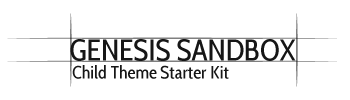
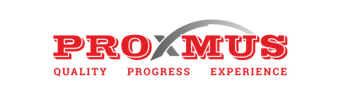
Theme:  Proxmus

Changed region(s): [[0.0286, 0.15, 0.9714, 0.84]]

diff --git a/Proxmus/style.css b/Proxmus/style.css
@@ -174,14 +174,11 @@ a img {
   *zoom: 1;
   padding-top: 20px;
 	padding-top: 2rem;
-	border-top:18px solid #E6E6E6;
-
 }
 
 .home .site-inner {
 	padding-top: 0;
 	border-top:0;
-	background-color:#F5F5F5;
 }
 
 .home .site-inner.home-slider {
@@ -191,10 +188,24 @@ a img {
 }
 .home .site-inner.home-seo {
 	background:#FFFFFF;
-	margin-bottom:30px;
-	margin-bottom:3rem;
+	margin-bottom:0;
 	text-align:center;
 }
+
+.site-inner.before_header {margin:0; padding:0; background:#E6E6E6; text-align:right;}
+
+.site-inner.home-top {text-align:center;}
+
+.site-inner.home-links {text-align:center;}
+.site-inner.home-links .home_box {display:inline-block; width:250px; max-width:100%; margin:1rem; text-align:center; vertical-align:top;}
+.site-inner.home-links .home_box img {display:inline-block;}
+.site-inner.home-links .home_box h2 {display:inline-block; float:left; width:100%; text-align:left; font-weight:400; border-bottom:3px solid #E31E24;}
+.site-inner.home-links .home_box a {display:inline-block; float:left; width:100%; text-align:left;}
+.site-inner.home-links .home_box a:focus,
+.site-inner.home-links .home_box a:hover {background-color:#0996D4; color:#FFFFFF;}
+
+.site-inner.home-bottom {min-height:884px; text-align:center; background:url('images/worldmap.jpg') 50% 0 no-repeat;}
+.site-inner.home-bottom .home-widget.widget-area {display:inline-block; text-align:center; padding:1rem; margin:4rem auto; background:rgba(255,255,255,0.8);}
 
 .home .site-inner.home-seo .widgettitle {font-size:3rem; font-weight:700; padding:3.4rem 0 0 0; letter-spacing:-0.05em;}
 .home .site-inner.home-seo .textwidget {font-size:2rem; font-weight:300; padding:0 2rem 0 2rem; letter-spacing:-0.07em;}
@@ -469,23 +480,22 @@ h6,
 .site-header {
   min-height: 80px;
   overflow: hidden;
-	background:#39AC12;
-	color:#FFFFFF;
+	background:#FFFFFF;
+	color:#0996D4;
 }
 
 .site-title {
-  margin: 20px 0 8px;
-  margin: 2rem 0 0.8rem;
+  margin:0;
   font-size: 48px;
   font-size: 4.8rem;
 	font-family: "Open Sans", sans-serif;
   font-weight: 700;
 }
 .site-title a {
-  color: #FFFFFF;
+  color:#0996D4;
 }
 .site-title a:hover {
-  color:#FFFFFF;
+  color:#0996D4;
 }
 
 .header-image .site-title {
@@ -494,13 +504,18 @@ h6,
 
 .site-description {
   line-height: 1.25;
-  color: #FFFFFF;
+  color:#0996D4;
 }
 
 .header-full-width .site-title,
 .header-full-width .site-title a,
 .header-full-width .title-area {
-  width: 100%;
+	display: block;
+	float: left;
+	height: 100px;
+	width:290px;
+	overflow: hidden;
+	max-width:100%;
 }
 
 .header-image .site-title,
@@ -509,7 +524,7 @@ h6,
   display: block;
   float: left;
   height: 100px;
-	width:220px;
+	width:290px;
   overflow: hidden;
   max-width:100%;
 }
@@ -530,7 +545,7 @@ h6,
 ---------------------------------------------------------------------------------------------------- */
 .genesis-nav-menu {
   clear: both;
-  color: white;
+  color:#0996D4;
 	font-family: "Roboto Condensed", sans-serif;
 	font-size:1.4rem;
   letter-spacing: 1px;
@@ -612,15 +627,14 @@ h6,
   padding: 1.4rem 0 0;
 }
 
-.genesis-nav-menu a {color: #FFFFFF; background:url('images/menu-top-hover.png') 50% -80px no-repeat;}
+.genesis-nav-menu a {color:#0996D4; }
 .genesis-nav-menu .current_page_item > a,
 .genesis-nav-menu .current-menu-item > a,
 .genesis-nav-menu .current-menu-parent > a,
 .genesis-nav-menu .menu-item:hover > a,
 .genesis-nav-menu a:hover {
 	color: #FFFFFF;
-	background-position:50% -55px;
-	background-size:auto;
+	background-color:#0996D4;
 }
 
 
@@ -644,7 +658,7 @@ h6,
 
 .nav-primary a:hover,
 .nav-primary .current-menu-item > a {
-  color: #fff;
+  color:#0996D4;
 }
 
 .nav-primary .sub-menu a {
@@ -1079,7 +1093,7 @@ Site Footer
   clear: both;
   margin: 0;
   margin: 0;
-	background:#39AC12;
+	background:#333333;
 	color:#FFFFFF;
 }
 

diff --git a/Proxmus/front-page.php b/Proxmus/front-page.php
@@ -16,11 +16,11 @@ add_action( 'get_header', 'gs_home_helper' );
  * Add widget support for homepage. If no widgets active, display the default loop.
  */
 function gs_home_helper() {
-	if ( is_active_sidebar( 'home-slider' ) || is_active_sidebar( 'home-top' ) || is_active_sidebar( 'home-middle-01' ) /*|| is_active_sidebar( 'home-middle-02' )*/ || is_active_sidebar( 'home-middle-03' ) || is_active_sidebar( 'home-bottom' ) ) {
+	if ( is_active_sidebar( 'home-slider' ) || is_active_sidebar( 'home-top' ) || is_active_sidebar( 'home-bottom' ) ) {
         add_action( 'genesis_after_header', 'gs_home_slider_widget' );
         remove_action( 'genesis_loop', 'genesis_do_loop' );
-        add_action( 'genesis_loop', 'gs_home_widgets' );
-		add_action( 'genesis_before_footer', 'gs_home_seo_widget' );
+		add_action( 'genesis_after_header', 'gs_home_widgets' );
+		add_action( 'genesis_before_footer', 'gs_map_widgets' );
         /** Force Full Width */
         add_filter( 'genesis_pre_get_option_site_layout', '__genesis_return_full_width_content' );
         add_filter( 'genesis_site_layout', '__genesis_return_full_width_content' );
@@ -33,60 +33,65 @@ function gs_home_slider_widget() {
 	//if( function_exists('cyclone_slider') ) cyclone_slider('testowy-rotator');
 	genesis_widget_area(
 		'home-slider',
-		array(
-			//'before' => '<div class="site-inner home-slider"><div class="wrap"><div class="content-sidebar-wrap">',
-			//'after' => '</div></div></div>'
-		)
+		array()
 	);
 }
 function gs_home_widgets() {
-    genesis_widget_area(
-        'home-top',
-        array(
-	        /*'before' => '<div class="site-inner home-slider"><div class="wrap"><div class="content-sidebar-wrap">',
-	        'after' => '</div></div></div>'*/
-
-	        'before' => '<aside id="home-top" class="home-widget widget-area">', )
-    );
-    echo '<div id="home-middle" class="home-middle">';
-    genesis_widget_area(
-        'home-middle-01',
-        array(
-            'before' => '<aside id="home-middle-01" class="first one-half"><div class="home-widget widget-area">',
-            'after' => '</div></aside><!-- end #home-left -->',
-        )
-    );
-    /*genesis_widget_area(
-        'home-middle-02',
-        array(
-            'before' => '<aside id="home-middle-01" class="one-third"><div class="home-widget widget-area">',
-            'after' => '</div></aside><!-- end #home-middle -->',
-        )
-    );*/
-    genesis_widget_area(
-        'home-middle-03',
-        array(
-            'before' => '<aside id="home-right" class="one-half"><div class="home-widget widget-area">',
-            'after' => '</div></aside><!-- end #home-right -->',
-        )
-    );
-    echo '</div>';
-    genesis_widget_area(
-        'home-bottom',
-        array(
-            'before' => '<aside id="home-bottom"><div class="home-widget widget-area">',
-            'after' => '</div></aside><!-- end #home-bottom -->',
-        )
-    );
-}
-function gs_home_seo_widget() {
 	genesis_widget_area(
 		'home-seo',
 		array(
-			'before' => '<div class="site-inner home-seo"><div class="wrap"><div class="content-sidebar-wrap">',
+			'before' => '<div class="site-inner home-seo"><div class="wrap"><div class="home-widget widget-area">',
+			'after' => '</div></div></div>'
+		)
+	);
+    genesis_widget_area(
+        'home-top',
+        array(
+	        'before' => '<div class="site-inner home-top"><div class="wrap"><div class="home-widget widget-area">',
+	        'after' => '</div></div></div>'
+        )
+    );
+
+}
+add_action( 'genesis_loop', 'homelinks' );
+function homelinks(){
+	echo '<div class="site-inner home-links"><div class="wrap"><div class="home-widget widget-area">';
+	echo '<div class="home_box">
+<img src="'.get_stylesheet_directory_uri().'/images/skrawanie.jpg" alt="OBRÓBKA SKRAWANIEM" />
+<h2>OBRÓBKA SKRAWANIEM</h2>
+<a href="#">Obróbka wielkogabarytowa</a>
+<a href="#">Cięcie i kształtowanie profili</a>
+</div>
+		<div class="home_box">
+		<img src="'.get_stylesheet_directory_uri().'/images/instalacje.jpg" alt="INSTALACJE I TECHNOLOGIA" />
+<h2>INSTALACJE I TECHNOLOGIA</h2>
+<a href="#">Konstrukcje stalowe</a>
+<a href="#">Linie technologiczne</a>
+<a href="#">Wykonawstwo maszyn</a>
+</div>
+		<div class="home_box">
+		<img src="'.get_stylesheet_directory_uri().'/images/czesci.jpg" alt="CZĘŚCI ZAMIENNE I MODERNIZACJE" />
+<h2>CZĘŚCI ZAMIENNE I MODERNIZACJE</h2>
+<a href="#">Projektowanie i wyrabianie części zamiennych</a>
+<a href="#">Modernizowanie maszyn i urządzeń przemysłowych</a>
+</div>
+		<div class="home_box">
+		<img src="'.get_stylesheet_directory_uri().'/images/urzadzenia.jpg" alt="URZĄDZENIA PROCESOWE" />
+<h2>URZĄDZENIA PROCESOWE</h2>
+<a href="#">Wykonawstwo urządzeń procesowych</a>
+<a href="#">Wykonawstwo na zamówienie</a>
+</div>';
+	echo '</div></div></div>';
+}
+function gs_map_widgets() {
+	genesis_widget_area(
+		'home-bottom',
+		array(
+			'before' => '<div class="site-inner home-bottom"><div class="wrap"><div class="home-widget widget-area">',
 			'after' => '</div></div></div>'
 		)
 	);
 }
+
 genesis();
 /** EndOfFront-Page */

diff --git a/Proxmus/functions.php b/Proxmus/functions.php
@@ -119,11 +119,16 @@ function gs_theme_setup()
 			printf( '<style type="text/css">%s</style>' . "\n", $output );
 
 	}
-/*
+
 	add_action( 'genesis_before_header', 'beforeheader' );
 	function beforeheader(){
-		echo '<div class="site-inner before_header"><div class="wrap">xxxxxxxxxxxxxxxxxx</div></div>';
-	}*/
+		echo '<div class="site-inner before_header"><div class="wrap">
+			<a href="#" class="linkedin">'.__('Odwiedź nasz profil na LinkedIn').'</a>
+			<a href="#" class="lang pl">'.__('POLSKI').'</a>
+			<a href="#" class="lang en">'.__('ANGIELSKI').'</a>
+			<a href="#" class="lang de">'.__('NIEMIECKI').'</a>
+			</div></div>';
+	}
 
 	//Enable Post Navigation
 	//add_action( 'genesis_after_entry_content', 'genesis_prev_next_post_nav', 5 );
@@ -146,7 +151,7 @@ function gs_theme_setup()
 	add_theme_support( 'custom-background' );
 
 	// Enable Custom Header
-	add_theme_support('genesis-custom-header', array('width'=> 220, 'height'=> 100));
+	add_theme_support('genesis-custom-header', array('width'=> 290, 'height'=> 100));
 
 	// Add support for structural wraps
 	add_theme_support( 'genesis-structural-wraps', array(
@@ -254,14 +259,19 @@ function gs_register_sidebars() {
 			'description'	=> __( 'This is the most top homepage section.', CHILD_DOMAIN ),
 		),
 		array(
-			'id'			=> 'home-top',
-			'name'			=> __( 'Strona główna', CHILD_DOMAIN ),
-			'description'	=> __( 'This is the top homepage section.', CHILD_DOMAIN ),
-		),
-		array(
 			'id'			=> 'home-seo',
 			'name'			=> __( 'Strona główna SEO', CHILD_DOMAIN ),
 			'description'	=> __( 'This is the homepage bottom text.', CHILD_DOMAIN ),
+		),
+		array(
+			'id'			=> 'home-top',
+			'name'			=> __( 'Strona główna - góra', CHILD_DOMAIN ),
+			'description'	=> __( 'This is the top homepage section.', CHILD_DOMAIN ),
+		),
+		array(
+			'id'			=> 'home-bottom',
+			'name'			=> __( 'Strona główna - dół', CHILD_DOMAIN ),
+			'description'	=> __( 'This is the top homepage section.', CHILD_DOMAIN ),
 		),
 		array(
 			'id'			=> 'after-contact',
